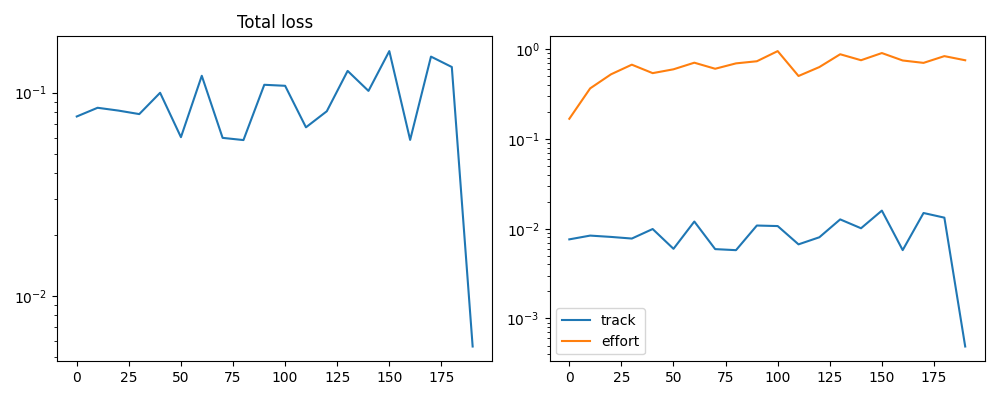
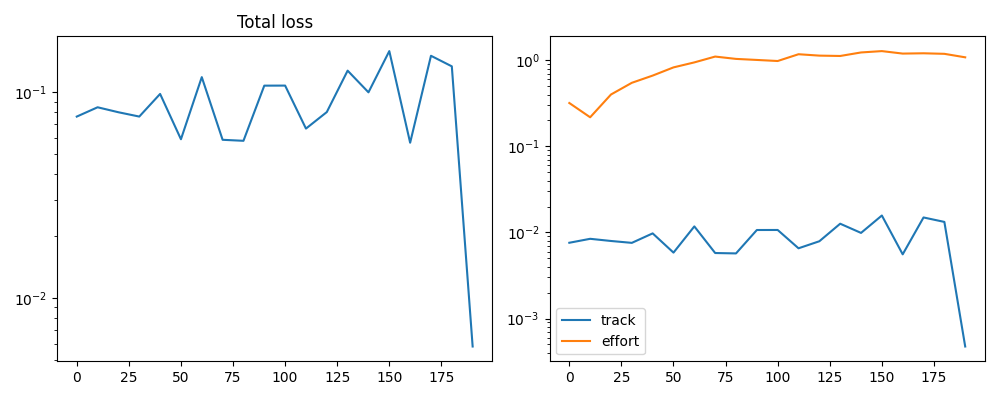
fixed training

diff --git a/examples/ns2D/centralized/train.py b/examples/ns2D/centralized/train.py
@@ -21,17 +21,21 @@ from examples.ns2D.centralized.dynamics import PDEDynamics, sample_initial_vorti
 
 class NS2DControlNet(nn.Module):
     features: Sequence[int]
-    u_max: float = 2.0
+    u_max: float = 1.5
     v_max: float = 0.5
 
     @nn.compact
     def __call__(self, z_curr, z_target, xi_curr):
         error = z_curr - z_target
-        x = error.reshape(-1)
+        x = error[..., None]
         for feat in self.features:
-            x = nn.Dense(feat)(x)
-            x = nn.tanh(x)
-        branch = x
+            x = nn.Conv(feat, kernel_size=(3, 3), padding="SAME")(x)
+            x = nn.relu(x)
+        x = nn.max_pool(x, window_shape=(2, 2), strides=(2, 2), padding="SAME")
+        x = x.reshape(-1)
+        x = nn.LayerNorm()(x)
+        branch = nn.Dense(32)(x)
+        branch = nn.tanh(branch)
 
         freqs = jnp.array([1.0, 2.0, 4.0, 8.0])
         angle = xi_curr[..., None] / (2.0 * jnp.pi) * freqs[None, None, :] * 2.0 * jnp.pi
@@ -39,7 +43,7 @@ class NS2DControlNet(nn.Module):
         encoded = encoded.reshape(xi_curr.shape[0], -1)
 
         y = encoded
-        for feat in [64, 64]:
+        for feat in [32, 32]:
             y = nn.Dense(feat)(y)
             y = nn.tanh(y)
 
@@ -56,12 +60,24 @@ class NS2DControlNet(nn.Module):
         return u, v
 
 
-n = 128
-L = 2.0 * jnp.pi
-m_agents = 64
-batch_size = 4
-epochs = 200
-t_steps = 200
+def compute_iou(z_curr, z_target, epsilon=1e-8):
+    """
+    Compute Intersection over Union for binary density fields.
+    IoU = intersection / union
+    Returns 1 - IoU as a loss (0 is perfect, 1 is worst)
+    """
+    intersection = jnp.sum(z_curr * z_target)
+    union = jnp.sum(z_curr + z_target - z_curr * z_target)
+    iou = intersection / (union + epsilon)
+    return 1.0 - iou  # Convert to loss (lower is better)
+
+
+n = 64
+L = jnp.pi
+m_agents = 25
+batch_size = 6
+epochs = 20
+t_steps = 100
 
 key = jax.random.PRNGKey(0)
 key_omega, key_data = jax.random.split(key)
@@ -77,7 +93,7 @@ z_init_all, z_target_all = jax.vmap(partial(generate_shape_pair, n=n, L=L))(
 )
 xi_init_all = jnp.tile(xi_init_single[None, ...], (total_samples, 1, 1))
 
-model = NS2DControlNet(features=(128, 128))
+model = NS2DControlNet(features=(16, 32))
 dummy_z = jnp.zeros((n, n))
 dummy_target = jnp.zeros((n, n))
 dummy_xi = xi_init_single
@@ -96,6 +112,7 @@ with solver_ts:
         def step_fn(carry, _):
             omega_curr, z_curr, xi_curr = carry
             u_action, v_action = model.apply(p, z_curr, z_target, xi_curr)
+
             omega_next, z_next, xi_next = dyn.step(
                 omega_curr, z_curr, xi_curr, u_action, v_action
             )
@@ -113,9 +130,18 @@ with solver_ts:
 
     def loss_fn(p, z_init, xi_init, z_target, dyn):
         z_traj, xi_traj, u_traj, v_traj = rollout_fn(p, z_init, xi_init, z_target, dyn)
-        track = jnp.mean((z_traj[-1] - z_target) ** 2)
+        
+        # Compute IoU loss at each timestep and sum
+        def compute_timestep_iou(z_t):
+            return compute_iou(z_t, z_target)
+        
+        iou_losses = jax.vmap(compute_timestep_iou)(z_traj)
+        track = jnp.mean(iou_losses)  # Sum over all timesteps
+        
+        # Control effort
         effort = jnp.mean(u_traj**2) + 0.1 * jnp.mean(v_traj**2)
-        return 10.0 * track + 0.001 * effort, (track, effort)
+        
+        return track + 0.001 * effort, (track, effort, iou_losses[-1])
 
     @partial(jax.jit, static_argnames="dyn")
     def train_step(p, opt_st, z_init_b, xi_init_b, z_target_b, dyn):
@@ -137,43 +163,79 @@ with solver_ts:
     for epoch in trange(epochs):
         key, subkey = jax.random.split(key)
         shuffled = jax.random.permutation(subkey, indices)
-        start = 0
-        current_idx = shuffled[start : start + batch_size]
+        
+        # FIX: Properly iterate through all batches
+        num_batches = total_samples // batch_size
+        epoch_losses = []
+        epoch_tracks = []
+        epoch_efforts = []
+        epoch_final_ious = []
+        
+        for batch_idx in range(num_batches):
+            start = batch_idx * batch_size
+            current_idx = shuffled[start : start + batch_size]
 
-        z_init_batch = z_init_all[current_idx]
-        z_target_batch = z_target_all[current_idx]
-        xi_init_batch = xi_init_all[current_idx]
+            z_init_batch = z_init_all[current_idx]
+            z_target_batch = z_target_all[current_idx]
+            xi_init_batch = xi_init_all[current_idx]
 
-        params, opt_state, loss, aux = train_step(
-            params, opt_state, z_init_batch, xi_init_batch, z_target_batch, dynamics
-        )
-        track, effort = aux
+            params, opt_state, loss, aux = train_step(
+                params, opt_state, z_init_batch, xi_init_batch, z_target_batch, dynamics
+            )
+            track, effort, final_iou = aux
+            
+            epoch_losses.append(loss)
+            epoch_tracks.append(track)
+            epoch_efforts.append(effort)
+            epoch_final_ious.append(final_iou)
+
+        # Average metrics across all batches in the epoch
+        avg_loss = jnp.mean(jnp.array(epoch_losses))
+        avg_track = jnp.mean(jnp.array(epoch_tracks))
+        avg_effort = jnp.mean(jnp.array(epoch_efforts))
+        avg_final_iou = jnp.mean(jnp.array(epoch_final_ious))
 
         if epoch % 10 == 0:
             elapsed = time.time() - start_time
             print(
-                f"Epoch {epoch:03d} | Loss {loss:.6f} | Track {track:.6f} | Effort {effort:.6f} | Time {elapsed:.1f}s"
+                f"Epoch {epoch:03d} | Loss {avg_loss:.6f} | Track {avg_track:.6f} | "
+                f"Effort {avg_effort:.6f} | Final IoU Loss {avg_final_iou:.6f} | Time {elapsed:.1f}s"
             )
-            metrics.append((epoch, loss, track, effort))
+            metrics.append((epoch, avg_loss, avg_track, avg_effort, avg_final_iou))
 
 metrics = jnp.array(metrics)
 epochs_rec = metrics[:, 0]
 
-plt.figure(figsize=(10, 4))
-plt.subplot(1, 2, 1)
+plt.figure(figsize=(12, 4))
+plt.subplot(1, 3, 1)
 plt.plot(epochs_rec, metrics[:, 1])
 plt.yscale("log")
-plt.title("Total loss")
+plt.xlabel("Epoch")
+plt.ylabel("Loss")
+plt.title("Total Loss")
+plt.grid(True, alpha=0.3)
 
-plt.subplot(1, 2, 2)
-plt.plot(epochs_rec, metrics[:, 2], label="track")
+plt.subplot(1, 3, 2)
+plt.plot(epochs_rec, metrics[:, 2], label="track (IoU sum)")
 plt.plot(epochs_rec, metrics[:, 3], label="effort")
 plt.yscale("log")
+plt.xlabel("Epoch")
+plt.ylabel("Value")
 plt.legend()
+plt.title("Loss Components")
+plt.grid(True, alpha=0.3)
+
+plt.subplot(1, 3, 3)
+plt.plot(epochs_rec, metrics[:, 4])
+plt.xlabel("Epoch")
+plt.ylabel("1 - IoU")
+plt.title("Final Timestep IoU Loss")
+plt.grid(True, alpha=0.3)
+
 plt.tight_layout()
-plt.savefig("centralized_training_ns2d.png")
+plt.savefig("centralized_training_ns2d_fixed.png")
 
 import flax.serialization
-with open('centralized_params_ns2d.msgpack', 'wb') as f:
+with open('centralized_params_ns2d_fixed.msgpack', 'wb') as f:
     f.write(flax.serialization.to_bytes(params))
 print(f"Training finished in {time.time() - start_time:.2f}s. Params saved.")

diff --git a/examples/ns2D/centralized/visualize.py b/examples/ns2D/centralized/visualize.py
@@ -18,17 +18,21 @@ from examples.ns2D.centralized.data_utils import generate_shape_pair, make_actua
 
 class NS2DControlNet(nn.Module):
     features: Sequence[int]
-    u_max: float = 2.0
+    u_max: float = 1.5
     v_max: float = 0.5
 
     @nn.compact
     def __call__(self, z_curr, z_target, xi_curr):
         error = z_curr - z_target
-        x = error.reshape(-1)
+        x = error[..., None]
         for feat in self.features:
-            x = nn.Dense(feat)(x)
-            x = nn.tanh(x)
-        branch = x
+            x = nn.Conv(feat, kernel_size=(3, 3), padding="SAME")(x)
+            x = nn.relu(x)
+        x = nn.max_pool(x, window_shape=(2, 2), strides=(2, 2), padding="SAME")
+        x = x.reshape(-1)
+        x = nn.LayerNorm()(x)
+        branch = nn.Dense(32)(x)
+        branch = nn.tanh(branch)
 
         freqs = jnp.array([1.0, 2.0, 4.0, 8.0])
         angle = xi_curr[..., None] / (2.0 * jnp.pi) * freqs[None, None, :] * 2.0 * jnp.pi
@@ -36,7 +40,7 @@ class NS2DControlNet(nn.Module):
         encoded = encoded.reshape(xi_curr.shape[0], -1)
 
         y = encoded
-        for feat in [64, 64]:
+        for feat in [32, 32]:
             y = nn.Dense(feat)(y)
             y = nn.tanh(y)
 
@@ -84,28 +88,28 @@ def rollout_scene(params, model, rho_init, rho_target, xi_init, dynamics, t_step
 
 
 def main():
-    n = 128
-    L = 2.0 * jnp.pi
-    m_agents = 12
-    t_steps = 100
+    n = 64
+    L = jnp.pi
+    m_agents = 25
+    t_steps = 200
 
     solver_ts = Tesseract.from_image("solver_ns_shape")
 
     with solver_ts:
         dynamics = PDEDynamics(solver_ts, use_tesseract=False)
 
-        model = NS2DControlNet(features=(128, 128))
+        model = NS2DControlNet(features=(16, 32))
         try:
-            params = load_params(model, "centralized_params_ns2d.msgpack", n, m_agents)
+            params = load_params(model, "centralized_params_ns2d_fixed.msgpack", n, m_agents)
         except FileNotFoundError:
-            print("centralized_params_ns2d.msgpack not found, using randomly initialized policy.")
+            print("centralized_params_ns2d_fixed.msgpack not found, using randomly initialized policy.")
             key = jax.random.PRNGKey(1)
             dummy_z = jnp.zeros((n, n))
             dummy_target = jnp.zeros((n, n))
             dummy_xi = make_actuator_grid(m_agents, L)
             params = model.init(key, dummy_z, dummy_target, dummy_xi)
 
-        key = jax.random.PRNGKey(1234)
+        key = jax.random.PRNGKey(64)
 
         n_scenes = 2
         n_cols = 6
